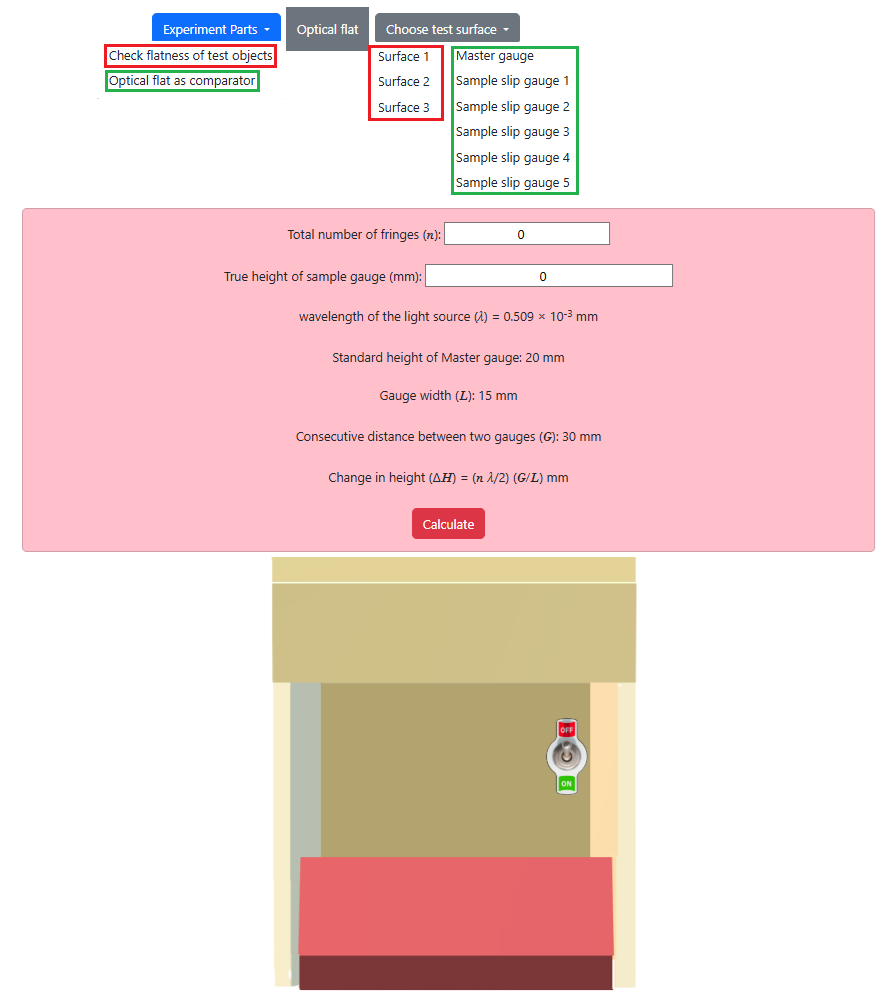
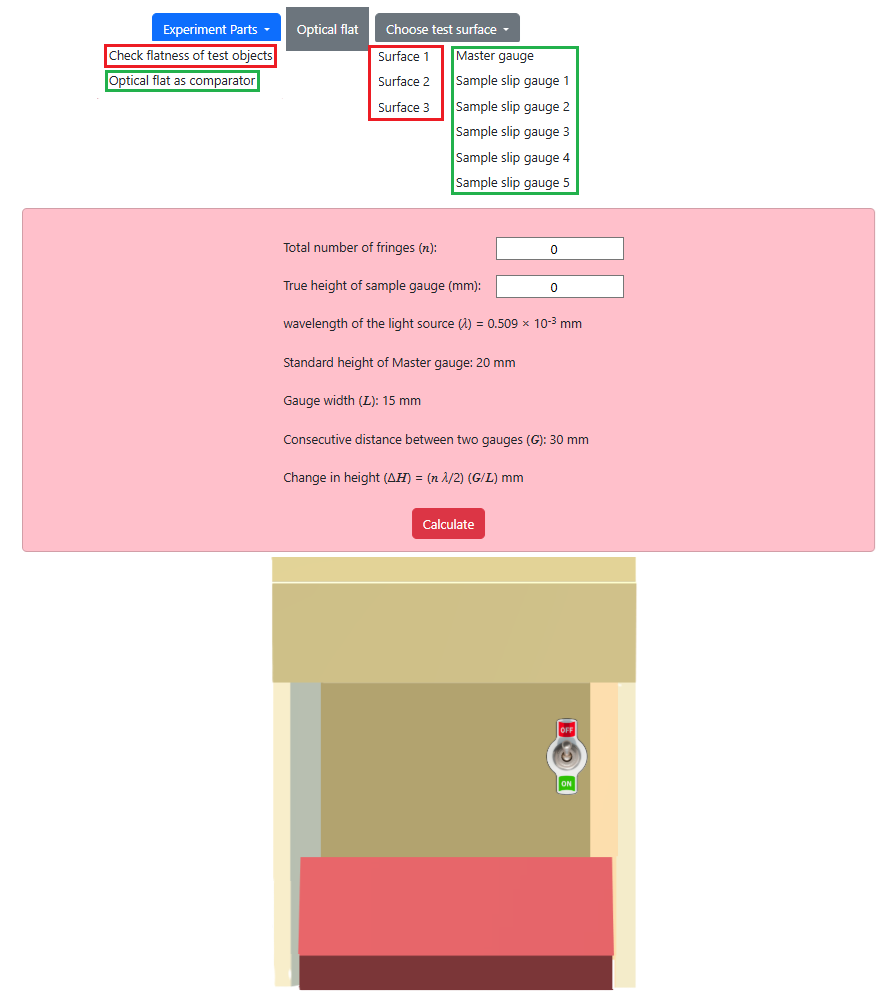
dxpf3

Changed region(s): [[0.2771, 0.2188, 0.7697, 0.4062], [0.3387, 0.4375, 0.6773, 0.5]]

diff --git a/experiment/simulation/js/opticalFlats.js b/experiment/simulation/js/opticalFlats.js
@@ -66,6 +66,7 @@ document.getElementById('cts').disabled = true;
 if(document.getElementById('seudobox').value == 2 && document.getElementById('of2').value == 1){
 	showfringe();
 	document.getElementById('cts2').disabled = true;
+	document.getElementById('calc').disabled = false;
 }
 }	
 
@@ -272,17 +273,6 @@ function fringe13(){///round fringe convex
 }
 
 
-
-
-
-
-
-
-
-
-
-
-
 function fringe2(){///mastergauge fringe
 	
 	$('#fringe').attr('src','./images/fr2.png');	
@@ -332,13 +322,14 @@ counter++;
 	document.getElementById('patternL').classList.add("fringe2");
 	document.getElementById('patternR').classList.add("fringe2");
 	$('#patternL').css('display','block');
-	$('#patternL').css('width','5%');
-	$('#patternL').css('left','39%');
+	$('#patternL').css('width','5.6%');
+	$('#patternL').css('left','40.5%');
 	$('#patternL').css('height','14%');
 	
 	$('#patternR').css('display','block');
-	$('#patternR').css('width','5%');
-	$('#patternR').css('left','59%');
+	$('#patternR').css('width','5.6%');
+	$('#patternR').css('left','55%');
+	$('#patternR').css('height','16%');
 	$('#n').val(5);
 	 },3000);
 }	
@@ -352,13 +343,14 @@ else if(document.getElementById('hchk').value == 2){
 	document.getElementById('patternL').classList.add("fringe2");
 	document.getElementById('patternR').classList.add("fringe2");
 	$('#patternL').css('display','block');
-	$('#patternL').css('width','5%');
-	$('#patternL').css('left','39%');
+	$('#patternL').css('width','5.6%');
+	$('#patternL').css('left','40.5%');
 	$('#patternL').css('height','14%');
 	
 	$('#patternR').css('display','block');
-	$('#patternR').css('width','5%');
-	$('#patternR').css('left','59%');
+	$('#patternR').css('width','5.6%');
+	$('#patternR').css('left','55.2%');
+	$('#patternR').css('height','16%');
 	$('#n').val(10);
 	 },3000);
 }	
@@ -372,12 +364,14 @@ else if(document.getElementById('hchk').value == 2){
 	document.getElementById('patternL').classList.add("fringe2");
 	document.getElementById('patternR').classList.add("fringe2");
 	$('#patternL').css('display','block');
-	$('#patternL').css('width','7%');
-	$('#patternL').css('left','38%');
+	$('#patternL').css('width','6.4%');
+	$('#patternL').css('left','40%');
 	$('#patternL').css('height','15%');
+	
 	$('#patternR').css('display','block');
-	$('#patternR').css('width','5%');
-	$('#patternR').css('left','59%');
+	$('#patternR').css('width','5.6%');
+	$('#patternR').css('left','55.2%');
+	$('#patternR').css('height','16%');
 	$('#n').val(15);
 	 },3000);
 }	
@@ -391,12 +385,14 @@ else if(document.getElementById('hchk').value == 2){
 	document.getElementById('patternL').classList.add("fringe2");
 	document.getElementById('patternR').classList.add("fringe2");
 	$('#patternL').css('display','block');
-	$('#patternL').css('width','7%');
-	$('#patternL').css('left','38%');
+	$('#patternL').css('width','6.4%');
+	$('#patternL').css('left','40%');
 	$('#patternL').css('height','15%');
+	
 	$('#patternR').css('display','block');
-	$('#patternR').css('width','7%');
-	$('#patternR').css('left','58%');
+	$('#patternR').css('width','5.8%');
+	$('#patternR').css('left','55%');
+	$('#patternR').css('height','16%');
 	
 	$('#n').val(20);
 	 },3000);
@@ -411,12 +407,14 @@ else if(document.getElementById('hchk').value == 2){
 	document.getElementById('patternL').classList.add("fringe2");
 	document.getElementById('patternR').classList.add("fringe2");
 	$('#patternL').css('display','block');
-	$('#patternL').css('width','7%');
-	$('#patternL').css('left','38%');
+	$('#patternL').css('width','6.4%');
+	$('#patternL').css('left','40%');
 	$('#patternL').css('height','15%');
+	
 	$('#patternR').css('display','block');
-	$('#patternR').css('width','7%');
-	$('#patternR').css('left','58%');
+	$('#patternR').css('width','5.8%');
+	$('#patternR').css('left','55%');
+	$('#patternR').css('height','16%');
 	$('#n').val(25);
 	 },3000);
 }	
@@ -442,7 +440,7 @@ var table;
 //------------------------------------------------- Table Creation -----------------------------------------------//
 function CreateTable() {///thickness
 
-	
+	document.getElementById('clr').disabled = false;
     arr[0] = tabrowindex+1 ;
     arr[1] = $('#n').val();///math.divide(math.floor(math.multiply($('#t1').val(),1000)),1000);
     arr[2] = $('#sgh').val();///math.divide(math.floor(math.multiply($('#t2').val(),1000)),1000);
@@ -486,11 +484,15 @@ function Refresh(){///donot keep the name of the function as clear
 	//Dtable.style.display="none";
 	tabrowindex=0;
 	
+	document.getElementById('calc').disabled = true;
+	document.getElementById('att').disabled = true;
+	document.getElementById('clr').disabled = true;
 	
  }
 
 var percentErr;
 function calculate(){
+	document.getElementById('att').disabled = false;
 	var waven = $('#n').val();
 	var lamda = math.multiply(0.509,math.pow(10,-3));
 	var G = 30;

diff --git a/experiment/simulation/index_height.html b/experiment/simulation/index_height.html
@@ -115,6 +115,8 @@
 						
 					<li>Similarly follow steps 9-10 and click on 'Add to Table' button again to get another three observations for other 
 					three sample slip gauges.</li><br/>
+					
+					<li>Click on 'Clear' button. Switch off the light.</li>
 
 					 
 					<br/><br/>
@@ -186,15 +188,15 @@
 			
 			<div class="card-body"  >
 					
-			<span class="card-text" >Total number of fringes (<span style="font-family:'Bodoni MT';font-style:italic;font-size:18px">n</span>):&nbsp;<input  type="number" id="n" value="0" readonly=readonly style="width:20%;text-align:center"></span><br/><br/>
-			<span class="card-text">True height of sample gauge (mm):&nbsp;<input type="number" id="sgh" value="0" readonly=readonly  style="width:30%;text-align:center"></span><br/><br/>
-			<span class="card-text">wavelength of the light source (<span style="font-family:'Bodoni MT';font-style:italic;font-size:18px">&lambda;</span>) = 0.509 &times; 10<sup>-3</sup> mm</span><br/><br/>
-			<span class="card-text">Standard height of Master gauge: 20 mm</span><br/><br/>
-			<span class="card-text">Gauge width (<span style="font-family:'Bodoni MT';font-style:italic;font-size:18px">L</span>): 15 mm</span><br/><br/>
-			<span class="card-text">Consecutive distance between two gauges (<span style="font-family:'Bodoni MT';font-style:italic;font-size:18px">G</span>): 30 mm</span><br/><br/>
-			<span class="card-text">Change in height (&Delta;<span style="font-family:'Bodoni MT';font-style:italic;font-size:18px">H</span>) = (<span style="font-family:'Bodoni MT';font-style:italic;font-size:18px">n &lambda;</span>/2) (<span style="font-family:'Bodoni MT';font-style:italic;font-size:18px">G/L</span>) mm</span><br/><br/>
+			<span class="card-text" style="position:absolute;left:30%">Total number of fringes (<span style="font-family:'Bodoni MT';font-style:italic;font-size:18px">n</span>):</span>&nbsp;<input  type="number" id="n" value="0" readonly=readonly style="width:15%;text-align:center;position:absolute;left:55%"><br/><br/>
+			<span class="card-text" style="position:absolute;left:30%">True height of sample gauge (mm):</span>&nbsp;<input type="number" id="sgh" value="0" readonly=readonly  style="width:15%;text-align:center;position:absolute;left:55%"><br/><br/>
+			<span class="card-text" style="position:absolute;left:30%">wavelength of the light source (<span style="font-family:'Bodoni MT';font-style:italic;font-size:18px">&lambda;</span>) = 0.509 &times; 10<sup>-3</sup> mm</span><br/><br/>
+			<span class="card-text" style="position:absolute;left:30%">Standard height of Master gauge: 20 mm</span><br/><br/>
+			<span class="card-text" style="position:absolute;left:30%">Gauge width (<span style="font-family:'Bodoni MT';font-style:italic;font-size:18px">L</span>): 15 mm</span><br/><br/>
+			<span class="card-text" style="position:absolute;left:30%">Consecutive distance between two gauges (<span style="font-family:'Bodoni MT';font-style:italic;font-size:18px">G</span>): 30 mm</span><br/><br/>
+			<span class="card-text" style="position:absolute;left:30%">Change in height (&Delta;<span style="font-family:'Bodoni MT';font-style:italic;font-size:18px">H</span>) = (<span style="font-family:'Bodoni MT';font-style:italic;font-size:18px">n &lambda;</span>/2) (<span style="font-family:'Bodoni MT';font-style:italic;font-size:18px">G/L</span>) mm</span><br/><br/>
 
-			<button  type="button"   class="btn btn-danger " onclick="calculate()" >Calculate</button>
+			<button  type="button" id="calc"  class="btn btn-danger " onclick="calculate()" disabled=disabled>Calculate</button>
 			</div></div></div>			
 			<div class="col-md-1"></div>
 						
@@ -234,9 +236,9 @@
 		
 			<div class="col-md-12 "><!--2nd col under 2nd row start -->	
 			
-		<button type="button"  class="btn btn-info " onclick="CreateTable()" >Add to Table</button>
+		<button type="button" id="att" class="btn btn-info " onclick="CreateTable()" disabled=disabled>Add to Table</button>
 	
-		<button type="button"   class="btn btn-danger " onclick="Refresh()" >Clear</button>
+		<button type="button" id="clr"  class="btn btn-danger " onclick="Refresh()" disabled=disabled>Clear</button>
 		</div>
 		</div> 
 		

diff --git a/experiment/simulation/css/opticalFlats.css b/experiment/simulation/css/opticalFlats.css
@@ -165,7 +165,7 @@ opacity: 0.7;
 #mgauge2{
 display: none; 
 position: absolute;
-left: 38%;
+left: 40%;
 top: 67.5%;
 /* height: 100%; */
 /* width: 25%; */
@@ -174,7 +174,7 @@ z-index: 1;
 #sgauge2{
 display: none;
 position: absolute;
-left: 59%;
+left: 55%;
 top: 66.5%;
 height: 19%;
 width: 6%;

diff --git a/experiment/simulation/index.html b/experiment/simulation/index.html
@@ -115,6 +115,8 @@
 						
 					<li>Similarly follow steps 9-10 and click on 'Add to Table' button again to get another three observations for other 
 					three sample slip gauges.</li><br/>
+					
+					<li>Click on 'Clear' button. Switch off the light.</li>
 
 					 
 					<br/><br/>

diff --git a/experiment/procedure.md b/experiment/procedure.md
@@ -42,3 +42,5 @@ the total number of fringes (<span style="font-family:'Bodoni MT';font-style:ita
 12. Choose 'Sample slip gauge2', follow steps 9-10 and click on 'Add to Table' button again to get the second observation.
 
 13. Similarly follow steps 9-10 and click on 'Add to Table' button again to get another three observations for other three sample slip gauges.
+
+14. Click on 'Clear' button. Switch off the light.
